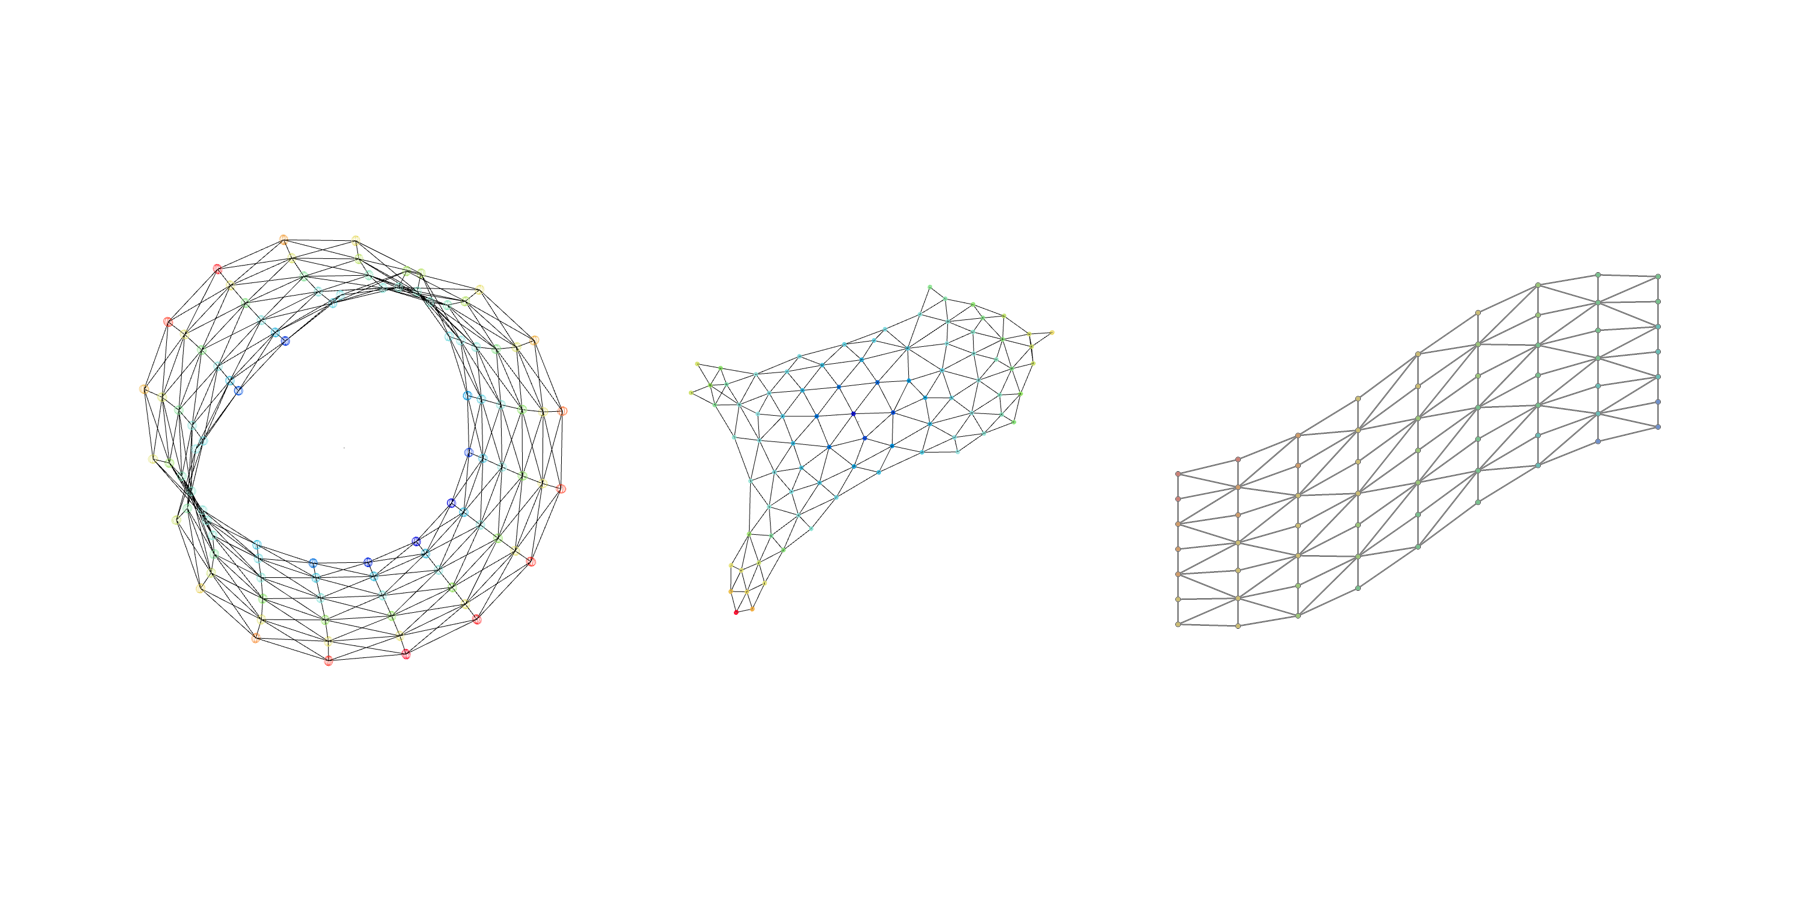
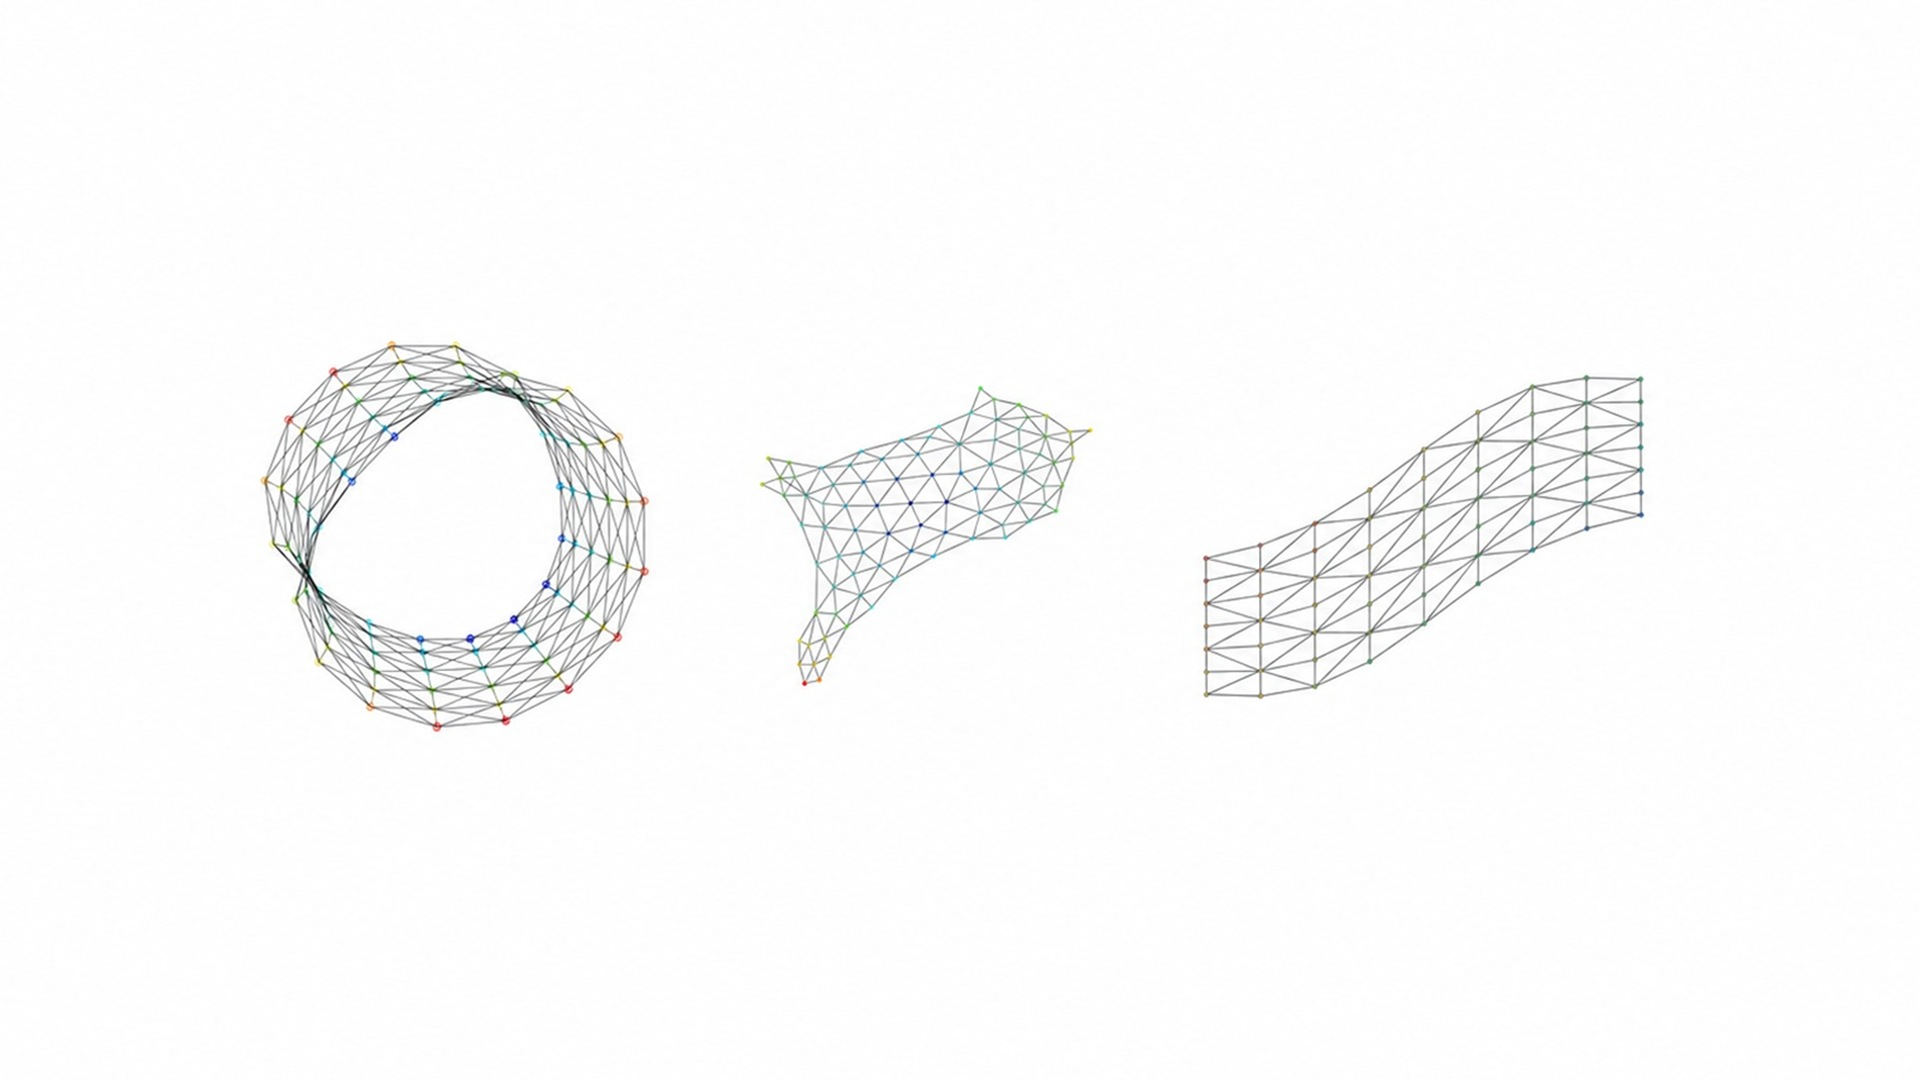
fix(responsive): improve portfolio layout on small screens

Changed region(s): [[0.0622, 0.2489, 0.3422, 0.7467], [0.6222, 0.3111, 0.9333, 0.7156], [0.3733, 0.3422, 0.5911, 0.6844]]

diff --git a/assets/js/content.js b/assets/js/content.js
@@ -80,20 +80,20 @@ export function render_skills(skills, asset_prefix = '') {
 
             // Wrap skills with a source URL in a link while keeping the same layout
             const image_container = value.href
-                ? `<a class="d-flex align-items-center justify-content-center bg-white border rounded-3 shadow-sm p-3"
+                ? `<a class="skill-logo d-flex align-items-center justify-content-center bg-white border rounded-3 shadow-sm p-3"
                         href="${value.href}" target="_blank" rel="noopener noreferrer">${image}</a>`
-                : `<div class="d-flex align-items-center justify-content-center bg-white border rounded-3 shadow-sm p-3">${image}</div>`;
+                : `<div class="skill-logo d-flex align-items-center justify-content-center bg-white border rounded-3 shadow-sm p-3">${image}</div>`;
 
             // Skill values use a 0-50 scale and are displayed as percentages
             return `
-                <div class="row align-items-center g-3 mb-4">
+                <div class="skill-row row align-items-center g-3 mb-4">
                     <div class="col-auto">
                         ${image_container}
                     </div>
-                    <div class="col">
-                        <div class="d-flex justify-content-between align-items-center mb-2">
-                            <h5 class="fw-semibold mb-0">${value.tooltip}</h5>
-                            <span class="badge rounded-pill text-bg-primary">${value.value * 2}%</span>
+                    <div class="skill-details col">
+                        <div class="skill-heading d-flex justify-content-between align-items-center mb-2">
+                            <h5 class="skill-name fw-semibold mb-0">${value.tooltip}</h5>
+                            <span class="skill-level badge rounded-pill text-bg-primary">${value.value * 2}%</span>
                         </div>
                         <div class="progress rounded-pill bg-white" style="height: 0.75rem">
                             <div class="progress-bar bg-primary bg-gradient rounded-pill" role="progressbar"
@@ -107,7 +107,7 @@ export function render_skills(skills, asset_prefix = '') {
         }).join('');
 
         return `
-            <li class="bg-light rounded-4 p-4 mb-4">
+            <li class="skill-group bg-light rounded-4 p-4 mb-4">
                 <h3 class="h4 fw-bold mb-4">${skill.title}</h3>
                 <div>${values_html}</div>
             </li>
@@ -176,7 +176,7 @@ export function render_projects(projects, skill_name, asset_prefix = '') {
                 <div class="p-4">
                     <div class="d-flex flex-wrap justify-content-between align-items-start gap-2 mb-3">
                         <h4 class="fw-bold mb-0">${project.name}</h4>
-                        <span class="badge rounded-pill bg-white text-dark border">${project.date}</span>
+                        <span class="project-date badge rounded-pill bg-white text-dark border">${project.date}</span>
                     </div>
                     <div class="bg-white border rounded-3 p-3 mb-3">
                         <span class="fw-bold">${skill_name}: </span>${project.skills}

diff --git a/assets/css/style.css b/assets/css/style.css
@@ -22,11 +22,10 @@ body {
 }
 
 #background-image {
-    /* Darken the wallpaper to preserve contrast behind the content cards */
+    background-attachment: fixed;
     background-image:
         linear-gradient(135deg, rgba(13, 110, 253, 0.18), rgba(15, 23, 42, 0.5)),
         url('../images/wallpaper.jpg');
-    background-attachment: fixed;
 }
 
 /* Page sections and profile
@@ -85,7 +84,6 @@ header #person-header {
     transform: translateY(-2px);
 }
 
-/* Keep floating navigation controls above the page content */
 #language-div {
     z-index: 1020;
     width: fit-content;
@@ -138,6 +136,18 @@ header #person-header {
     object-fit: contain;
 }
 
+.skill-details {
+    min-width: 0;
+}
+
+.skill-heading {
+    gap: 0.75rem;
+}
+
+.skill-level {
+    flex: 0 0 auto;
+}
+
 /* Projects
  * ========================== */
 
@@ -155,11 +165,17 @@ header #person-header {
     display: block;
 }
 
+.project-date {
+    max-width: 100%;
+    overflow-wrap: anywhere;
+    text-align: center;
+    white-space: normal;
+}
+
 /* Loading screen
  * ========================== */
 
 .background-spinner {
-    /* Soften the page beneath the loader without hiding it completely */
     z-index: 1050;
     background-color: rgba(248, 249, 250, 0.88);
     backdrop-filter: blur(4px);
@@ -194,10 +210,54 @@ header #person-header {
         height: 150px;
     }
 
+    .text-justify {
+        text-align: left;
+    }
+
+    .courses-certificates-header {
+        font-size: clamp(1.25rem, 6.25vw, 1.5rem);
+        white-space: nowrap;
+    }
+
+    .skill-group {
+        padding: 1rem !important;
+    }
+
+    .skill-row {
+        --bs-gutter-x: 0.75rem;
+    }
+
+    .skill-logo {
+        padding: 0.5rem !important;
+    }
+
+    .lang-image {
+        width: 3rem;
+        height: 3rem;
+    }
+
+    .skill-heading {
+        gap: 0.5rem;
+    }
+
+    .skill-level {
+        padding-right: 0.55em;
+        padding-left: 0.55em;
+    }
+
+    .skill-name {
+        font-size: 0.875rem;
+        white-space: nowrap;
+    }
+}
+
+@media screen and (max-width: 359.98px) {
+    .skill-group {
+        padding: 0.5rem !important;
+    }
 }
 
 @media screen and (min-width: 1200px) {
-    /* Reserve room for the fixed vertical navigation on wide screens */
     #main-content .section {
         width: calc(100% - 4.75rem);
     }
